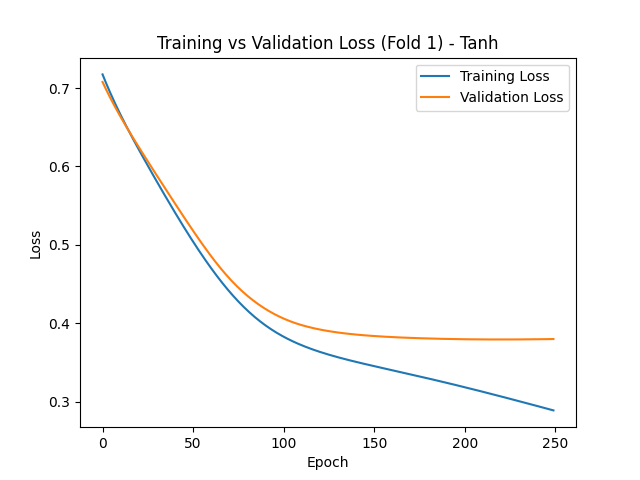
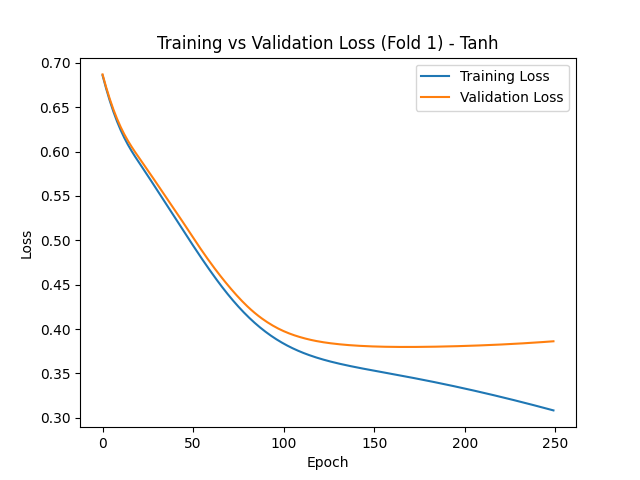
some optimazation for a1

diff --git a/2024_2025/cancer_detection.py b/2024_2025/cancer_detection.py
@@ -2,75 +2,147 @@ import csv
 import torch
 import torch.nn as nn
 import torch.optim as optim
-from sklearn.model_selection import StratifiedKFold
-from sklearn.preprocessing import StandardScaler
+from sklearn.model_selection import StratifiedKFold, train_test_split
+from sklearn.preprocessing import StandardScaler, MinMaxScaler, OneHotEncoder, RobustScaler, LabelEncoder
+from sklearn.compose import ColumnTransformer
+from sklearn.pipeline import Pipeline
 import matplotlib.pyplot as plt
 import numpy as np
+import pandas as pd
+
 
 def load_data(csv_path):
-    data = []
-    with open(csv_path, newline='') as csvfile:
-        reader = csv.reader(csvfile)
-        header = next(reader)  # skip header line if present
-        for row in reader:
-            # Remove the last column ("DoctorInCharge")
-            row = row[:-1]
-            data.append([float(x) for x in row])
-    data = torch.tensor(data)
-    X = data[:, :-1]
-    y = data[:, -1].long()
-    return X, y
+    """Load and preprocess the data from a CSV file.
 
-def plot_dataset(X, feature_index=0, save_path="dataset_feature_distribution.png"):
-    # Plot distribution for a chosen feature and export the figure
-    plt.figure()
-    plt.hist(X[:, feature_index].numpy(), bins=30)
-    plt.xlabel(f'Feature {feature_index}')
-    plt.ylabel('Frequency')
-    plt.title(f'Distribution of Feature {feature_index}')
-    plt.savefig(save_path)
-    plt.close()
+    Reads the CSV file, drops unused columns, encodes labels,
+    and separates numerical and categorical features.
 
-def plot_class_distribution(y, save_path="class_distribution.png"):
-    # Plot a bar chart for the distribution of classes in y
-    y_np = y.numpy()
-    classes, counts = np.unique(y_np, return_counts=True)
-    plt.figure()
-    plt.bar(classes, counts, tick_label=[f'Class {c}' for c in classes])
-    plt.xlabel('Classes')
-    plt.ylabel('Count')
-    plt.title('Class Distribution')
-    plt.savefig(save_path)
-    plt.close()
+    Args:
+        csv_path (str): Path to the CSV data file.
 
-def plot_feature_correlation(X, save_path="feature_correlation_heatmap.png"):
-    # Calculate correlation matrix and plot a heatmap
-    X_np = X.numpy()
-    corr_matrix = np.corrcoef(X_np, rowvar=False)
-    plt.figure(figsize=(8, 6))
-    plt.imshow(corr_matrix, cmap='hot', interpolation='nearest')
-    plt.colorbar()
-    plt.title('Feature Correlation Heatmap')
-    plt.xlabel('Feature Index')
-    plt.ylabel('Feature Index')
-    plt.savefig(save_path)
-    plt.close()
+    Returns:
+        X (pd.DataFrame): Features data.
+        y (np.ndarray): Encoded label array.
+        numeric_cols (list): List of numeric feature column names.
+        categorical_cols (list): List of categorical feature column names.
+    """
+    df = pd.read_csv(csv_path)
 
-# Modified SimpleNet class accepts a custom activation function.
+    # Drop columns that will not be used (like DoctorInCharge)
+    if 'DoctorInCharge' in df.columns:
+        df = df.drop('DoctorInCharge', axis=1)
+
+    # Define categorical columns (remove duplicate entries)
+    categorical_cols = ['Gender', 'Ethnicity', 'Smoking',
+                        'FamilyHistoryAlzheimers', 'Diabetes',
+                        'Depression', 'HeadInjury', 'Hypertension']
+    label_col = 'Diagnosis'
+
+    # Remove PatientID if not used.
+    if 'PatientID' in df.columns:
+        df = df.drop('PatientID', axis=1)
+
+    # Identify numeric columns by excluding categorical and label columns.
+    numeric_cols = [col for col in df.columns if col not in categorical_cols + [label_col]]
+
+    # Encode labels using LabelEncoder
+    label_encoder = LabelEncoder()
+    df[label_col] = label_encoder.fit_transform(df[label_col])
+
+    # Extract features and labels
+    X = df.drop(label_col, axis=1)
+    y = df[label_col].values.astype(int)
+
+    return X, y, numeric_cols, categorical_cols
+
+
+def plot_feature_distribution(df, numeric_cols, save_prefix):
+    """Plot distribution histograms for numeric features.
+
+    Args:
+        df (pd.DataFrame): Dataframe containing the data.
+        numeric_cols (list): List of numeric columns to plot.
+        save_prefix (str): Prefix for the saved plot filenames.
+    """
+    for col in numeric_cols:
+        plt.figure()
+        plt.hist(df[col].dropna(), bins=30)
+        plt.xlabel(col)
+        plt.ylabel('Frequency')
+        plt.title(f'Distribution of {col}')
+        plt.savefig(f"{save_prefix}_{col}.png")
+        plt.close()
+
+
+def plot_categorical_distribution(df, categorical_cols, save_prefix):
+    """Plot bar charts for categorical feature distributions.
+
+    Args:
+        df (pd.DataFrame): Dataframe containing the data.
+        categorical_cols (list): List of categorical columns to plot.
+        save_prefix (str): Prefix for the saved plot filenames.
+    """
+    for col in categorical_cols:
+        if col in df.columns:
+            plt.figure()
+            counts = df[col].value_counts()
+            plt.bar(counts.index.astype(str), counts.values)
+            plt.xlabel(col)
+            plt.ylabel('Count')
+            plt.title(f'Categorical Distribution of {col}')
+            plt.savefig(f"{save_prefix}_{col}.png")
+            plt.close()
+
+
 class SimpleNet(nn.Module):
+    """A simple neural network with one hidden layer supporting a custom activation."""
+    
     def __init__(self, input_size, hidden_size=32, output_size=2, activation=nn.ReLU()):
+        """Initialize the SimpleNet model.
+
+        Args:
+            input_size (int): Number of input features.
+            hidden_size (int): Number of neurons in hidden layer.
+            output_size (int): Number of output classes.
+            activation (nn.Module): Activation function to use.
+        """
         super(SimpleNet, self).__init__()
         self.fc1 = nn.Linear(input_size, hidden_size)
         self.activation = activation
         self.fc2 = nn.Linear(hidden_size, output_size)
-    
+
     def forward(self, x):
+        """Forward pass of the network.
+        
+        Args:
+            x (Tensor): Input data tensor.
+            
+        Returns:
+            Tensor: Output tensor.
+        """
         out = self.fc1(x)
         out = self.activation(out)
         out = self.fc2(out)
         return out
 
+
 def train(model, optimizer, criterion, X_train, y_train, X_val, y_val, epochs=50, device=torch.device("cpu")):
+    """Train the network and record loss history.
+
+    Args:
+        model (nn.Module): The neural network model.
+        optimizer (torch.optim.Optimizer): The optimizer.
+        criterion (nn.Module): Loss function.
+        X_train (Tensor): Training inputs.
+        y_train (Tensor): Training labels.
+        X_val (Tensor): Validation inputs.
+        y_val (Tensor): Validation labels.
+        epochs (int): Number of training epochs.
+        device (torch.device): Device for computation (CPU/CUDA).
+
+    Returns:
+        list, list: Training and validation loss histories.
+    """
     model.train()
     train_losses = []
     val_losses = []
@@ -81,8 +153,8 @@ def train(model, optimizer, criterion, X_train, y_train, X_val, y_val, epochs=50
         loss.backward()
         optimizer.step()
         train_losses.append(loss.item())
-        
-        # Evaluate on validation set
+
+        # Evaluate on validation set.
         model.eval()
         with torch.no_grad():
             val_outputs = model(X_val.to(device))
@@ -91,7 +163,19 @@ def train(model, optimizer, criterion, X_train, y_train, X_val, y_val, epochs=50
         model.train()
     return train_losses, val_losses
 
+
 def evaluate(model, X_test, y_test, device=torch.device("cpu")):
+    """Evaluate the model and return accuracy.
+
+    Args:
+        model (nn.Module): The neural network model.
+        X_test (Tensor): Test inputs.
+        y_test (Tensor): Test labels.
+        device (torch.device): Device for computation.
+
+    Returns:
+        float: Accuracy score.
+    """
     model.eval()
     with torch.no_grad():
         outputs = model(X_test.to(device))
@@ -99,52 +183,88 @@ def evaluate(model, X_test, y_test, device=torch.device("cpu")):
         accuracy = (predicted.cpu() == y_test).float().mean().item()
     return accuracy
 
+
 def main():
+    """Main function to perform data loading, preprocessing, training, and evaluation."""
     device = torch.device("cuda" if torch.cuda.is_available() else "cpu")
     print(f'Using device: {device}')
+
     csv_path = 'alzheimers_disease_data.csv'  # update path if necessary
-    X, y = load_data(csv_path)
+    X_df, y_np, numeric_cols, categorical_cols = load_data(csv_path)
 
-    # Export dataset plots (using raw data)
-    plot_dataset(X, feature_index=0, save_path="dataset_feature_distribution.png")
-    plot_class_distribution(y, save_path="class_distribution.png")
-    plot_feature_correlation(X, save_path="feature_correlation_heatmap.png")
-    
-    # Standardization using z-score
-    scaler = StandardScaler()
-    X_scaled = scaler.fit_transform(X.numpy())
-    X_scaled = torch.tensor(X_scaled, dtype=torch.float32)
+    # Plot distributions before applying any transformations.
+    plot_feature_distribution(X_df, numeric_cols, save_prefix="raw_numeric")
+    plot_categorical_distribution(X_df, categorical_cols, save_prefix="raw_categorical")
 
-    # Define the activation functions to test:
+    # Define the transformation pipeline.
+    numeric_transformer = StandardScaler()  # Alternatives: MinMaxScaler(), RobustScaler()
+    categorical_transformer = OneHotEncoder(sparse=False, handle_unknown='ignore')
+
+    preprocessor = ColumnTransformer(
+        transformers=[
+            ('num', numeric_transformer, numeric_cols),
+            ('cat', categorical_transformer, categorical_cols)
+        ])
+
+    # Apply transformation.
+    X_processed = preprocessor.fit_transform(X_df)
+
+    # Plot distributions after transformation (numeric part).
+    X_numeric_scaled = X_processed[:, :len(numeric_cols)]
+    for idx, col in enumerate(numeric_cols):
+        plt.figure()
+        plt.hist(X_numeric_scaled[:, idx], bins=30)
+        plt.xlabel(col)
+        plt.ylabel('Frequency')
+        plt.title(f'Distribution of {col} after Standard Scaling')
+        plt.savefig(f"scaled_{col}.png")
+        plt.close()
+
+    # Convert processed data to a torch tensor.
+    X_tensor = torch.tensor(X_processed, dtype=torch.float32)
+    y_tensor = torch.tensor(y_np, dtype=torch.long)
+
+    # Plot class distribution.
+    y_unique, counts = np.unique(y_np, return_counts=True)
+    plt.figure()
+    plt.bar(y_unique, counts, tick_label=[f'Class {c}' for c in y_unique])
+    plt.xlabel('Classes')
+    plt.ylabel('Count')
+    plt.title('Class Distribution')
+    plt.savefig("class_distribution_processed.png")
+    plt.close()
+
+    # Define activation functions to test.
     activations = {
         "ReLU": nn.ReLU(),
         "Tanh": nn.Tanh(),
-        "SiLU": nn.SiLU()  # SiLU (Swish) is available in recent versions of PyTorch
+        "SiLU": nn.SiLU()  # SiLU (Swish) is available in recent versions of PyTorch.
     }
-    
-    # Loop over each activation to train and evaluate the network
+
+    # Use StratifiedKFold cross-validation.
+    skf = StratifiedKFold(n_splits=5, shuffle=True, random_state=42)
+
     for act_name, act_func in activations.items():
         print(f"\nTesting activation function: {act_name}")
-        skf = StratifiedKFold(n_splits=5, shuffle=True, random_state=42)
-        accuracies = []
-    
-        # For demonstration, record loss curves for the first fold only.
-        for fold, (train_index, test_index) in enumerate(skf.split(X_scaled, y), 1):
-            X_train, X_test = X_scaled[train_index], X_scaled[test_index]
-            y_train, y_test = y[train_index], y[test_index]
-            
-            # Pass the tested activation into the network
-            model = SimpleNet(input_size=X_train.shape[1], activation=act_func).to(device)
+        fold_accuracies = []
+
+        for fold, (train_idx, test_idx) in enumerate(skf.split(X_tensor, y_tensor), start=1):
+            X_train, X_test = X_tensor[train_idx], X_tensor[test_idx]
+            y_train, y_test = y_tensor[train_idx], y_tensor[test_idx]
+
+            model = SimpleNet(input_size=X_train.shape[1],hidden_size=32, output_size=2, activation=act_func).to(device)
             criterion = nn.CrossEntropyLoss()
             optimizer = optim.Adam(model.parameters(), lr=0.001)
-            
-            # Train the model and record loss curves; adjust epochs if needed.
-            train_losses, val_losses = train(model, optimizer, criterion, X_train, y_train, X_test, y_test, epochs=80, device=device)
-            acc = evaluate(model, X_test, y_test, device=device)
-            accuracies.append(acc)
-            print(f'Fold {fold} Accuracy: {acc:.4f}')
-            
-            # Export loss curves for the first fold for each activation
+
+            train_losses, val_losses = train(
+                model, optimizer, criterion, X_train, y_train, X_test, y_test,
+                epochs=250, device=device)
+
+            accuracy = evaluate(model, X_test, y_test, device=device)
+            fold_accuracies.append(accuracy)
+            print(f'Fold {fold} Accuracy: {accuracy:.4f}')
+
+            # Export loss curves for the first fold.
             if fold == 1:
                 plt.figure()
                 plt.plot(train_losses, label='Training Loss')
@@ -155,9 +275,10 @@ def main():
                 plt.legend()
                 plt.savefig(f"loss_curves_fold1_{act_name}.png")
                 plt.close()
-            
-        mean_acc = sum(accuracies)/len(accuracies)
-        print(f'Mean Accuracy for {act_name}: {mean_acc:.4f}')
+
+        mean_accuracy = sum(fold_accuracies) / len(fold_accuracies)
+        print(f'Mean Accuracy for {act_name}: {mean_accuracy:.4f}')
+
 
 if __name__ == '__main__':
     main()
